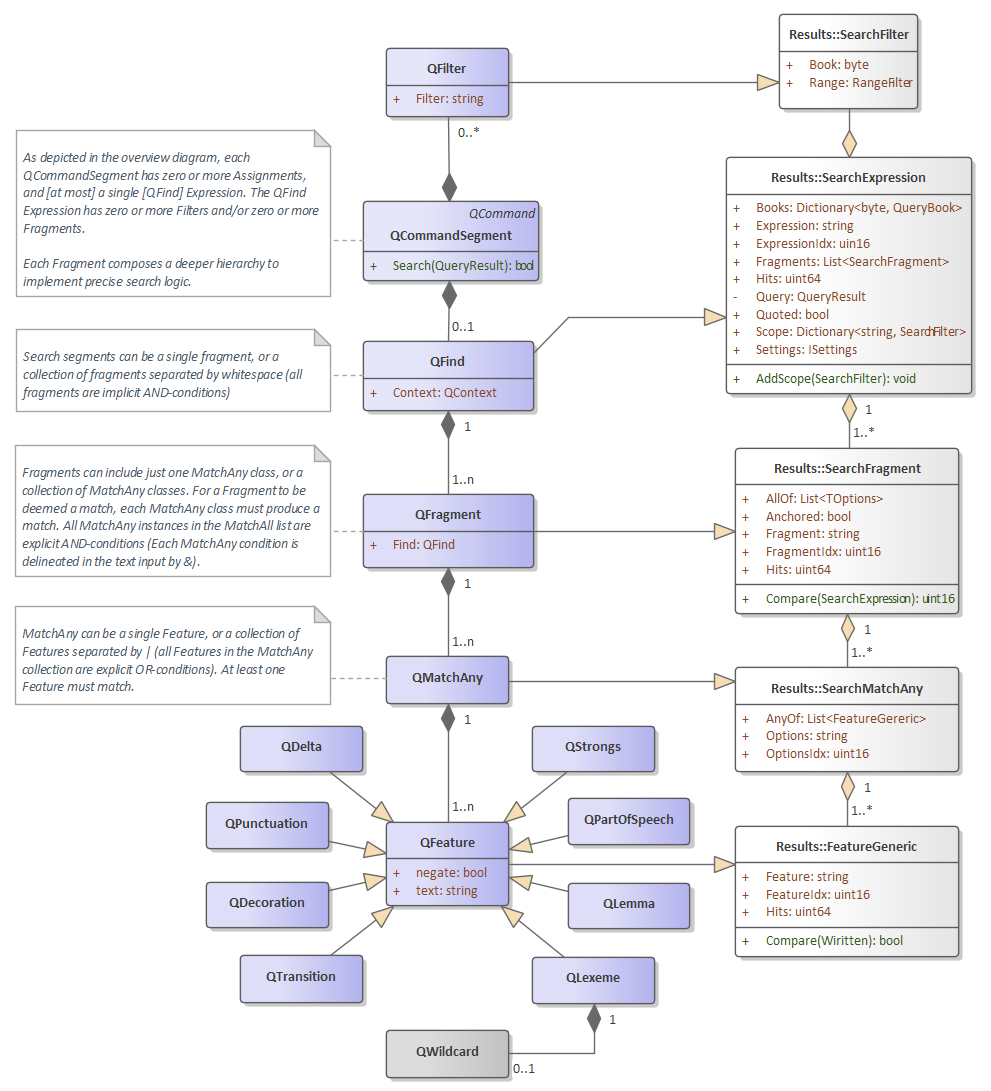
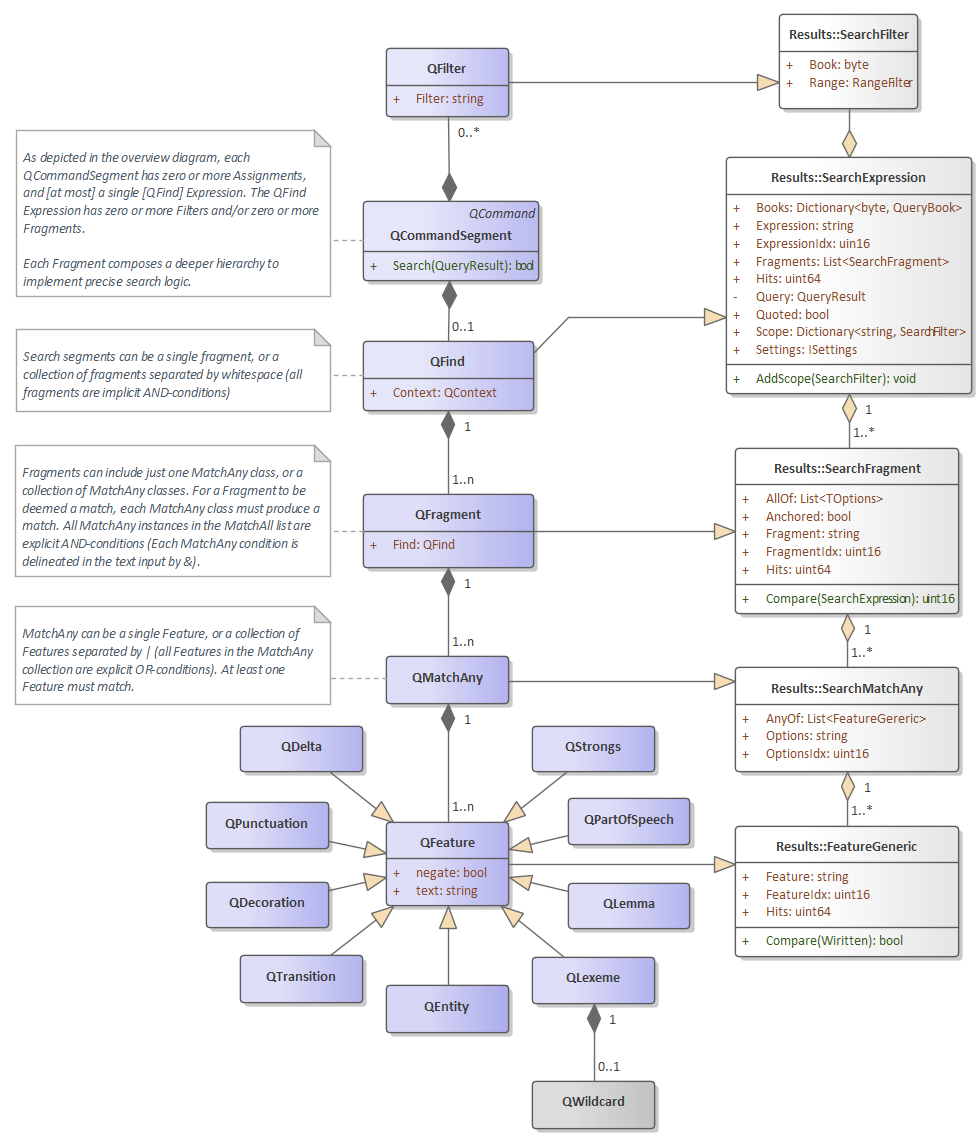
Rev AVX-Grammar to 2.4.123 and add QEntity class.

Changed region(s): [[0.0, 0.0, 1.0, 0.9973]]

diff --git a/AVEngine.cs b/AVEngine.cs
@@ -6,7 +6,10 @@
     using AVXLib;
     using AVSearch.Model.Results; 
     using Blueprint.Model.Implicit;
-    using static Blueprint.Model.Implicit.QFormat;
+    using YamlDotNet.Core.Tokens;
+    using AVXLib.Memory;
+    using static AVXLib.Framework.Numerics;
+    using System.Text;
 
     public class AVEngine
     {
@@ -19,9 +22,100 @@
 #else
         private AVQueryManager SearchEngine;
 #endif
-
-        public string Render(byte b, byte c, byte v, QFormatVal format, QLexicalDisplay lexicalDisplay, bool showDiffs)
+        private static void AddPunctuation(StringBuilder builder, ushort previousPunctuation, ushort currentPunctuation, bool s)
         {
+            bool prevParen = (previousPunctuation & Punctuation.Parenthetical) != 0;
+            bool thisParen = (currentPunctuation & Punctuation.Parenthetical) != 0;
+
+            if (thisParen && !prevParen)
+            {
+                builder.Insert(0, '(');
+            }
+
+            bool eparen  = (currentPunctuation & Punctuation.CloseParen) == Punctuation.CloseParen;
+            bool posses  = (currentPunctuation & Punctuation.Possessive) == Punctuation.Possessive;
+            bool exclaim = (currentPunctuation & Punctuation.Clause) == Punctuation.Exclamatory;
+            bool declare = (currentPunctuation & Punctuation.Clause) == Punctuation.Declarative;
+            bool dash    = (currentPunctuation & Punctuation.Clause) == Punctuation.Dash;
+            bool semi    = (currentPunctuation & Punctuation.Clause) == Punctuation.Semicolon;
+            bool colon   = (currentPunctuation & Punctuation.Clause) == Punctuation.Colon;
+            bool comma   = (currentPunctuation & Punctuation.Clause) == Punctuation.Comma;
+            bool quest   = (currentPunctuation & Punctuation.Clause) == Punctuation.Interrogative;
+
+            if (posses)
+            {
+                if (!s)
+                    builder.Append("'s");
+                else
+                    builder.Append('\'');
+            }
+            if (eparen)
+                builder.Append(')');
+            if (declare)
+                builder.Append('.');
+            else if (comma)
+                builder.Append(',');
+            else if (semi)
+                builder.Append(';');
+            else if (colon)
+                builder.Append(':');
+            else if (quest)
+                builder.Append('?');
+            else if (exclaim)
+                builder.Append('!');
+            else if (dash)
+                builder.Append("--");
+        }
+        public string Render(TextWriter output, byte b, byte c, byte v, QFormat.QFormatVal format, QLexicalDisplay.QDisplayVal lex, bool showDiffs)
+        {
+            return string.Empty;
+        }
+        public string Render(TextWriter output, byte b, byte c, byte v, QFormat.QFormatVal format, QLexicalDisplay.QDisplayVal lex, Dictionary<BCVW, QueryTag> tags)
+        {
+            if (b >= 1 && b <= 66)
+            {
+                var book = ObjectTable.AVXObjects.Mem.Book.Slice(b, 1).Span[0];
+                if (c >= 1 && c <= book.chapterCnt)
+                {
+                    var chapter = ObjectTable.AVXObjects.Mem.Chapter.Slice(book.chapterIdx + c - 1, 1).Span[0];
+
+                    if (v >= 1 && v <= chapter.verseCnt)
+                    {
+                        output.Write(book.abbr4.ToString() + " " + c.ToString() + ':' + v.ToString());
+                        var writ = ObjectTable.AVXObjects.Mem.Written.Slice(chapter.writIdx, chapter.writCnt).Span;
+
+                        for (int w = 0; w < chapter.writCnt; w++)
+                        {
+                            if (writ[w].BCVWc.V == v)
+                            {
+                                bool bold = tags.ContainsKey(writ[w].BCVWc);
+                                bool italics = (byte)(writ[w].Punctuation & Punctuation.Italics) == Punctuation.Italics;
+
+                                string decoration = bold ? (italics ? "***" : "**") : (italics ? "*" : string.Empty);
+
+                                string entry = lex == QLexicalDisplay.QDisplayVal.AV
+                                    ? ObjectTable.AVXObjects.lexicon.GetLexDisplay(writ[w].WordKey)
+                                    : ObjectTable.AVXObjects.lexicon.GetLexDisplay(writ[w].WordKey);
+
+                                if (entry != null)
+                                {
+                                    output.Write(' ');
+                                    output.Write(decoration);
+
+                                    byte previousPunctuation = (w > 0) ? writ[w-1].Punctuation : (byte)0;
+                                    bool s = entry.EndsWith("s", StringComparison.InvariantCultureIgnoreCase);
+                                    StringBuilder token = new StringBuilder(entry);
+                                    AVEngine.AddPunctuation(token, previousPunctuation, writ[w].Punctuation, s);
+
+                                    output.Write(token.ToString());
+                                    output.Write(decoration);
+                                }
+                            }
+                        }
+                        output.WriteLine();
+                    }
+                }
+            }
             return string.Empty;
         }
 
